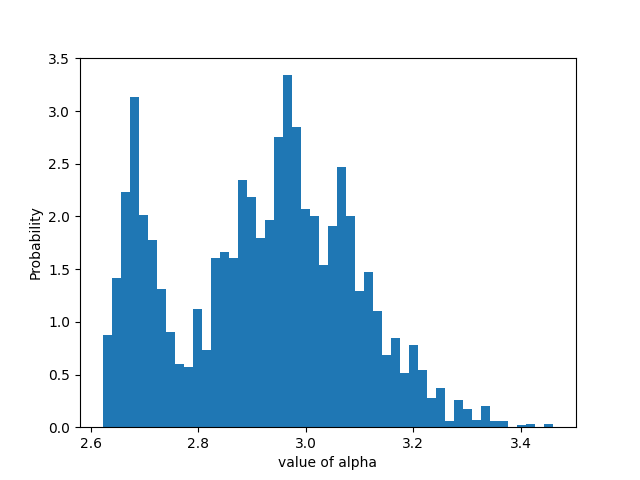
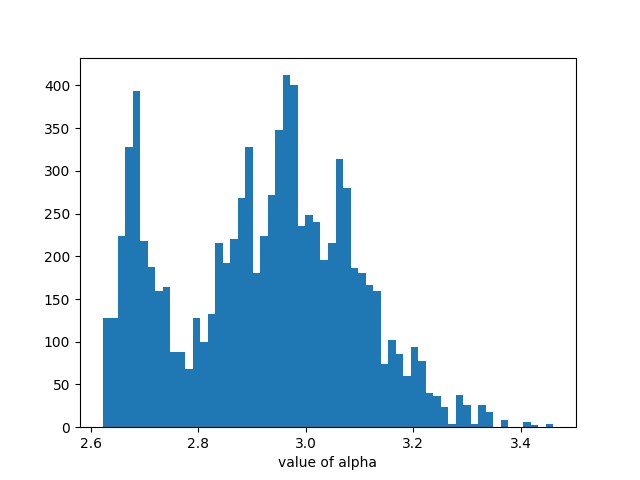
update

diff --git a/Ex3_square_harmonic_adaptive/estimate_all_path.py b/Ex3_square_harmonic_adaptive/estimate_all_path.py
@@ -95,15 +95,13 @@ PETSc.Sys.Print("Total number of the path from center to boundary is ", len(path
 PETSc.Sys.Print("Mean of the alpha is % s, the standard deviation is %s " %(alpha_mean,alpha_std))
 PETSc.Sys.Print("Mean of the c is % s, the standard deviation is %s " %(c_mean,c_std))
 
-plt.hist(alpha0,density=True,bins=50)
-plt.ylabel('Probability')
+plt.hist(alpha0,bins=60)
 plt.xlabel('value of alpha')
 plt.savefig(f"figures/distribution_alpha.png")
 plt.close()
 PETSc.Sys.Print(f"plot of distribution of all estiamted alpha is saved in figures/distribution_alpha.png.")
 
-plt.hist(c0,density=True,bins=50)
-plt.ylabel('Probability')
+plt.hist(c0,bins=60)
 plt.xlabel('value of c')
 plt.savefig(f"figures/distribution_c.png")
 plt.close()
